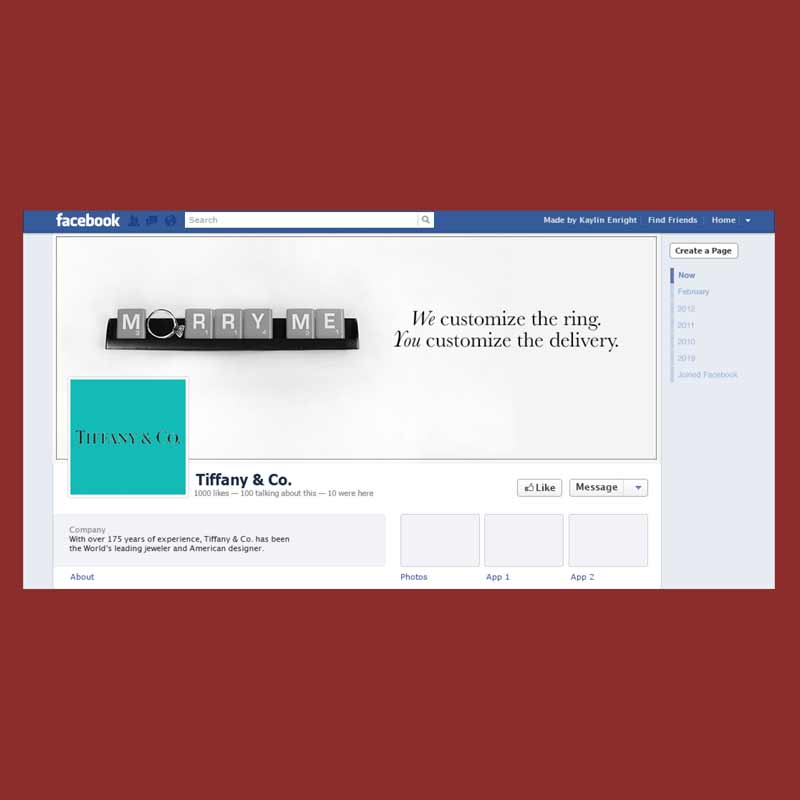
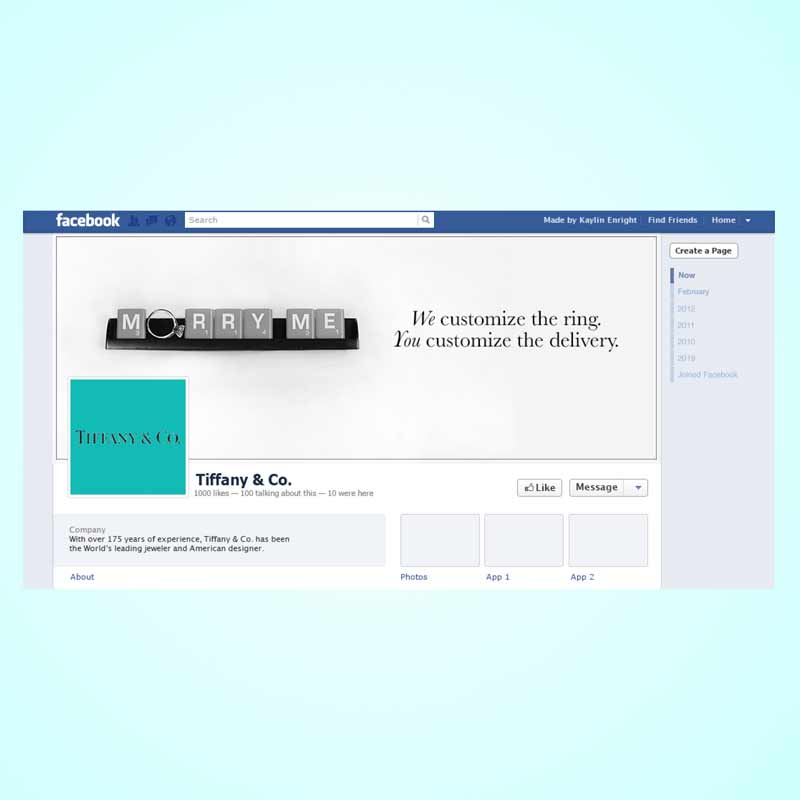
updated images, billboard and about me

diff --git a/index.html b/index.html
@@ -14,14 +14,10 @@ layout: default
         </div>
 
 
-        <div class="grid side-margin">
-            <div class="unit unit-xs-1 unit-s-1 unit-m-1 unit-l-1-2">
-                <img class="profile" src="images/me.jpg" alt="Contact Picture">
-            </div>
-
-
-            <div class=" unit unit-xs-1 unit-s-1 unit-m-1 unit-l-1-2">
-                <p class="about-p">I'm an Ottawa based designer finishing my final year at Algonquin College for Graphic Design.  I am planning to make a mark on the industry and find my place. So if you would like to work with me in the future; or like what you see, send me an email and we can work something out.
+        <div class="grid ">
+          
+            <div class=" unit">
+                <p class="about-title-2">I'm an Ottawa based designer finishing my final year at Algonquin College for Graphic Design.  I am planning to make a mark on the industry and find my place. So if you would like to work with me in the future; or like what you see, send me an email and we can work something out.
                 </p>
 
             </div>

diff --git a/_includes/css/main.css b/_includes/css/main.css
@@ -60,7 +60,7 @@ img {
 	padding-left: 2em;
     color: #ff9933;
 }
-
+ 
 
 
 
@@ -358,11 +358,10 @@ img {
 
 .graphic {
     margin: 0;
-    padding: 10em 0;
+    padding: 13em 0;
     position: relative;
     width: 100%;
-    background-image: url("../images/billboard.svg");
-    background-color:#BFD6D7;
+    background-image: url("../images/billboard-new.jpg");
     background-position: center center;
     background-size: cover;
 }
@@ -540,7 +539,16 @@ opacity: .7;
 
 }
 
-
+.about-title-2 {
+	font-size: 25px;
+    text-transform: uppercase;
+	padding-bottom: .5em;
+    margin: 1em 1.5em 1.5em 1em;
+    display: block;
+    color: #64ccc3;
+    font-weight: 400;
+    line-height: 1.5000;
+}
 
 
 .process-p {
@@ -625,7 +633,9 @@ opacity: .7;
   top: 30%;
 }
     
-    
+ .about-title-2 {
+    margin: 1.5em 2.5em 1.5em 2.5em;
+}   
 }
     
     @media only screen and (min-width: 60em) {
@@ -679,6 +689,10 @@ opacity: .7;
   height: 40%;
   top: 30%;
 }
+        
+         .about-title-2 {
+    margin: 1.5em 6.5em 1.5em 6.5em;
+}  
 
     }
 
